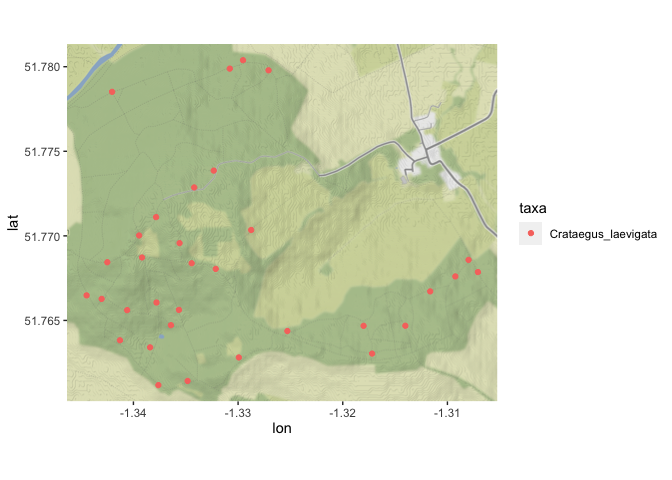
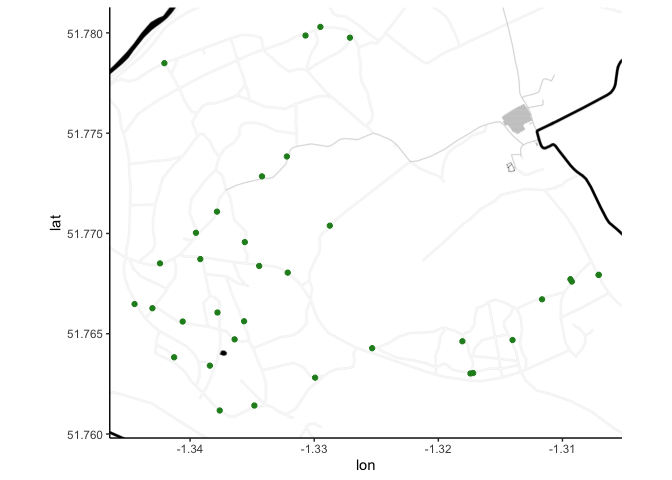
add non focal trees

diff --git a/code/exploration/2021-05-28_create-map.md b/code/exploration/2021-05-28_create-map.md
@@ -1,7 +1,7 @@
 Make a map of focal trees
 ================
 Eleanor Jackson
-23 August, 2021
+25 July, 2022
 
 ``` r
 library("tidyverse")
@@ -20,21 +20,30 @@ plotKML::readGPX(here::here("data", "raw", "waypoints.gpx")) %>%
   map_df(~.) %>%
   rename(id = name) %>%
   mutate(taxa = case_when(sym == "Park" ~ "Prunus_spinosa",
-                          sym == "Flag, Blue" ~ "Crataegus_laevigata")) %>%
+                          sym == "Flag, Blue" ~ "Crataegus_monogyna")) %>%
   select(-sym) %>%
   arrange(id) -> waypoints
+```
+
+## Or use co-ordinates from csv
+
+``` r
+read.csv(here::here("data", "raw", "tree_id_checklist.csv")) %>%
+  drop_na(long_dd, lat_dd) -> tree_list
 ```
 
 ## Make a static map
 
 ``` r
-bbox <- make_bbox(c(min(waypoints$lon), max(waypoints$lon)), 
-                  c(min(waypoints$lat), max(waypoints$lat)))
+bbox <- make_bbox(c(min(tree_list$long_dd), max(tree_list$long_dd)), 
+                  c(min(tree_list$lat_dd), max(tree_list$lat_dd)))
 
-get_map(bbox, source = "stamen", force=TRUE) %>%
+get_map(bbox, source = "stamen", force = TRUE, maptype = "toner-background") %>%
   ggmap() +
-  geom_point(data = waypoints, 
-           aes(lon, lat, colour = taxa))
+  geom_point(data = filter(tree_list, focal == TRUE),
+             colour = "forestgreen",
+           aes(long_dd, lat_dd)) +
+  theme_classic()
 ```
 
 ![](figures/2021-05-28_create-map/ggmap-1.png)<!-- -->
@@ -46,9 +55,9 @@ It’s not very detailed - we can’t see any of the trails
 ### make the data a SpatialPointsDataFrame object
 
 ``` r
-SpatialPointsDataFrame(coords = select(waypoints, lon, lat), 
-                       data = waypoints, 
-                       proj4string = CRS("+init=epsg:4326")) -> waypoints_sp
+SpatialPointsDataFrame(coords = select(tree_list, long_dd, lat_dd), 
+                       data = tree_list, 
+                       proj4string = CRS("+init=epsg:4326")) -> tree_list_sp
 ```
 
 ### make a map with leaflet
@@ -58,13 +67,13 @@ render it.
 
 ``` r
 # colours
-pal <- colorFactor(c("navy", "red"), c("Prunus_spinosa", "Crataegus_laevigata"))
+pal <- colorFactor(c("gold", "navy"), c("FALSE", "TRUE"))
 
-leaflet(data = waypoints_sp)%>% 
-  addCircleMarkers(label = ~id, color = ~pal(taxa), 
+leaflet(data = tree_list_sp)%>% 
+  addCircleMarkers(label = ~tree_id, color = ~pal(focal), 
                             fillOpacity = 0.8, stroke = FALSE, radius = 5) %>% 
   addTiles() %>%
-  addLegend(pal = pal, values = ~taxa)
+  addLegend(pal = pal, values = ~focal)
 ```
 
 ![](figures/2021-05-28_create-map/leaflet-map-1.png)<!-- -->
@@ -72,15 +81,19 @@ leaflet(data = waypoints_sp)%>%
 ### make a geoJSON file
 
 We can export the SpatialPointsDataFrame to a geoJSON, which GitHub will
-render as an interactive map, annotated with our geodata (taxa, id).
-This gives us a browsable, online version we can refer to.
+render as an interactive map, annotated with our geodata. This gives us
+a browsable, online version we can refer to.
 
 ``` r
 # convert to geojson
-waypoints_geojson <- geojson_json(waypoints_sp)
+tree_list_geojson <- geojson_json(tree_list_sp)
+```
 
+    ## Warning: 'geojsonlint' not installed, skipping GeoJSON linting
+
+``` r
 # write
-geojson_write(waypoints_geojson, file = "figures/2021-05-28_create-map/focal-trees-map.geojson")
+geojson_write(tree_list_geojson, file = "figures/2021-05-28_create-map/focal-trees-map.geojson")
 ```
 
     ## Success! File is at figures/2021-05-28_create-map/focal-trees-map.geojson
@@ -89,5 +102,5 @@ geojson_write(waypoints_geojson, file = "figures/2021-05-28_create-map/focal-tre
     ##   Path:       figures/2021-05-28_create-map/focal-trees-map.geojson
     ##   From class: json
 
-[**View map
-here!**](figures/2021-05-28_create-map/focal-trees-map.geojson)
+**view the interactive map online**
+[**here**](figures/2021-05-28_create-map/focal-trees-map.geojson)
